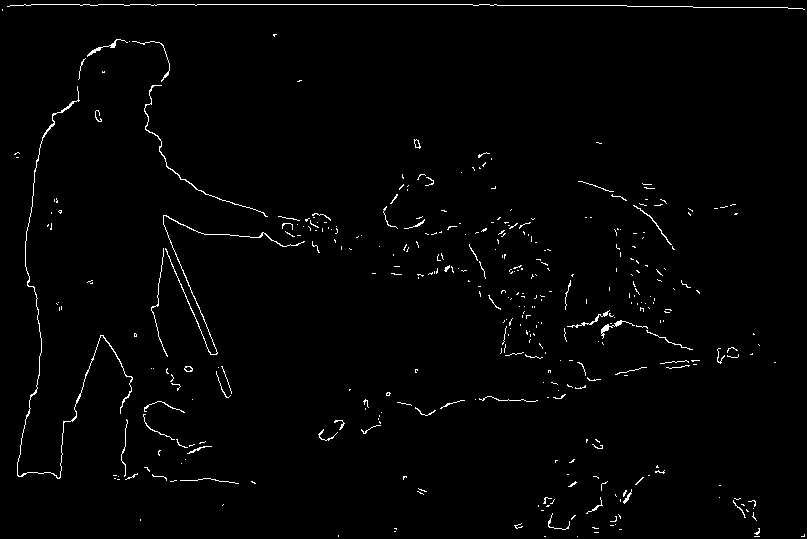
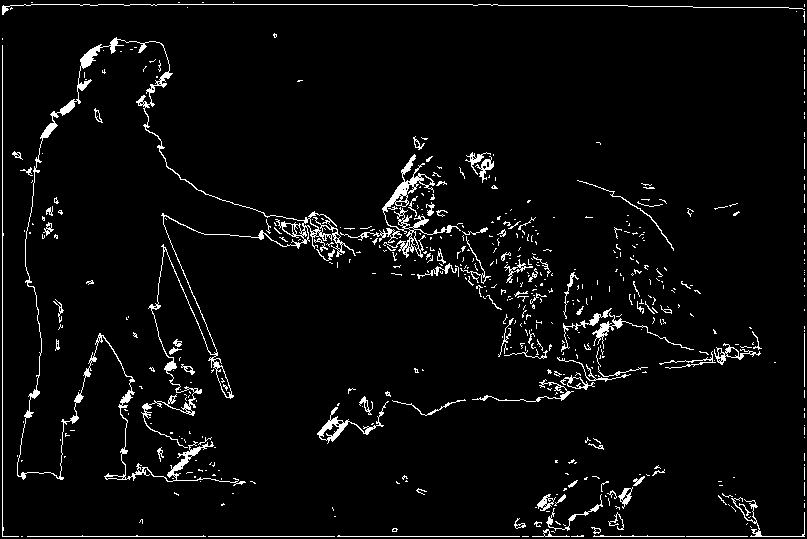
0.7.6. небольшой рефакторинг

diff --git a/CannyProject/CannyProject/Canny.cs b/CannyProject/CannyProject/Canny.cs
@@ -226,16 +226,15 @@ namespace CannyProject
             GaussianFilterImage = GetGaussianFilterImage(greyImage);
             float[,] derivativeX = GetDifferentiateX(GaussianFilterImage);
             float[,] derivativeY = GetDifferentiateY(GaussianFilterImage);
-            Gradient = ComputeGradientByDerivativesXY(derivativeX, derivativeY);
+            Gradient = ComputeGradientByDerivativesXy(derivativeX, derivativeY);
             if (_twoInputImage != null)
             {
                 Gradient = MyTestChangeGradientTwoImage(Gradient);
             }
-            NonMax = PerformNonMaximumSuppression(Gradient);
-
-
-            int limit = _mainKoeefficient.KernelSize/2;
+            SetNonMaxFromGradient(Gradient);
+            int limit = _mainKoeefficient.KernelSize / 2;
             SetNonMaxZero(limit, derivativeX, derivativeY);
+
             SetPostHysretesisFromNonMax(limit);
 
             //Find Max and Min in Post Hysterisis
@@ -255,7 +254,7 @@ namespace CannyProject
                         min = PostHysteresis[r, c];
                     }
                 }
-            }
+            } // nahuya? o_O
 
             SetGnhGnlEdgePoints(limit);
             var edgeMap = HysterisisThresholding(_edgePoints);
@@ -352,11 +351,13 @@ namespace CannyProject
         {
             var filterWidth = filter.GetLength(0);
             var filterHeight = filter.GetLength(1);
-            var output = new float[ObjInputImage.Width,ObjInputImage.Height];
+            var width = ObjInputImage.Width;
+            var height = ObjInputImage.Height;
+            var output = new float[width, height];
 
-            for (var i = filterWidth/2; i <= (ObjInputImage.Width - filterWidth/2) - 1; i++)
+            for (var i = filterWidth/2; i <= (width - filterWidth/2) - 1; i++)
             {
-                for (var j = filterHeight/2; j <= (ObjInputImage.Height - filterHeight/2) - 1; j++)
+                for (var j = filterHeight/2; j <= (height - filterHeight/2) - 1; j++)
                 {
                     float sum = 0;
                     for (var k = -filterWidth/2; k <= filterWidth/2; k++)
@@ -372,7 +373,7 @@ namespace CannyProject
             return output;
         }
 
-        private float[,] ComputeGradientByDerivativesXY(float[,] derivativeX, float[,] derivativeY)
+        private float[,] ComputeGradientByDerivativesXy(float[,] derivativeX, float[,] derivativeY)
         {
             var gradient = new float[ObjInputImage.Width,ObjInputImage.Height];
             for (var i = 0; i <= (ObjInputImage.Width - 1); i++)
@@ -448,18 +449,17 @@ namespace CannyProject
             return gradient;
         }
 
-        private float[,] PerformNonMaximumSuppression(float[,] gradient)
+        private void SetNonMaxFromGradient(float[,] gradient)
         {
             // NonMax = Gradient; ?? ^_^
-            var nonMax = new float[ObjInputImage.Width,ObjInputImage.Height];
+            NonMax = new float[ObjInputImage.Width, ObjInputImage.Height];
             for (var i = 0; i <= (ObjInputImage.Width - 1); i++)
             {
                 for (var j = 0; j <= (ObjInputImage.Height - 1); j++)
                 {
-                    nonMax[i, j] = gradient[i, j];
+                    NonMax[i, j] = gradient[i, j];
                 }
             }
-            return nonMax;
         }
 
         private void SetNonMaxZero(int limit, float[,] derivativeX, float[,] derivativeY)
@@ -468,35 +468,27 @@ namespace CannyProject
             {
                 for (var j = limit; j <= (ObjInputImage.Height - limit) - 1; j++)
                 {
-                    float tangent = derivativeX[i, j] == 0
-                                        ? 90F
-                                        : (float) (Math.Atan(derivativeY[i, j]/derivativeX[i, j])*180/Math.PI);
-                        //сомнительная херня, увеличивает производительность?
-
+                    var t = (float) (Math.Atan(derivativeY[i, j]/derivativeX[i, j])*180/Math.PI);
                     //Horizontal Edge
-                    if (((-22.5 < tangent) && (tangent <= 22.5)) || ((157.5 < tangent) && (tangent <= -157.5)))
+                    if (((-22.5 < t) && (t <= 22.5)) || ((157.5 < t) && (t <= -157.5)))
                     {
                         if ((Gradient[i, j] < Gradient[i, j + 1]) || (Gradient[i, j] < Gradient[i, j - 1]))
                             NonMax[i, j] = 0;
                     }
-
-
                     //Vertical Edge
-                    if (((-112.5 < tangent) && (tangent <= -67.5)) || ((67.5 < tangent) && (tangent <= 112.5)))
+                    if (((-112.5 < t) && (t <= -67.5)) || ((67.5 < t) && (t <= 112.5)))
                     {
                         if ((Gradient[i, j] < Gradient[i + 1, j]) || (Gradient[i, j] < Gradient[i - 1, j]))
                             NonMax[i, j] = 0;
                     }
-
                     //+45 Degree Edge
-                    if (((-67.5 < tangent) && (tangent <= -22.5)) || ((112.5 < tangent) && (tangent <= 157.5)))
+                    if (((-67.5 < t) && (t <= -22.5)) || ((112.5 < t) && (t <= 157.5)))
                     {
                         if ((Gradient[i, j] < Gradient[i + 1, j - 1]) || (Gradient[i, j] < Gradient[i - 1, j + 1]))
                             NonMax[i, j] = 0;
                     }
-
                     //-45 Degree Edge
-                    if (((-157.5 < tangent) && (tangent <= -112.5)) || ((67.5 < tangent) && (tangent <= 22.5)))
+                    if (((-157.5 < t) && (t <= -112.5)) || ((67.5 < t) && (t <= 22.5)))
                     {
                         if ((Gradient[i, j] < Gradient[i + 1, j + 1]) || (Gradient[i, j] < Gradient[i - 1, j - 1]))
                             NonMax[i, j] = 0;
@@ -514,12 +506,13 @@ namespace CannyProject
                 {
                     PostHysteresis[r, c] = (int) NonMax[r, c];
                 }
-
             }
         }
-
+        
         private void SetGnhGnlEdgePoints(int limit)
         {
+            var max = _mainKoeefficient.MaxHysteresisThresh;
+            var min = _mainKoeefficient.MinHysteresisThresh;
             GNH = new float[ObjInputImage.Width,ObjInputImage.Height];
             GNL = new float[ObjInputImage.Width,ObjInputImage.Height];
             _edgePoints = new int[ObjInputImage.Width,ObjInputImage.Height];
@@ -528,12 +521,12 @@ namespace CannyProject
             {
                 for (var j = limit; j <= (ObjInputImage.Height - limit) - 1; j++)
                 {
-                    if (PostHysteresis[i, j] >= _mainKoeefficient.MaxHysteresisThresh)
+                    if (PostHysteresis[i, j] >= max)
                     {
                         _edgePoints[i, j] = 1;
                         GNH[i, j] = 255;
                     }
-                    if ((PostHysteresis[i, j] < _mainKoeefficient.MaxHysteresisThresh) && (PostHysteresis[i, j] >= _mainKoeefficient.MinHysteresisThresh))
+                    if ((PostHysteresis[i, j] < max) && (PostHysteresis[i, j] >= min))
                     {
                         _edgePoints[i, j] = 2;
                         GNL[i, j] = 255;

diff --git a/CannyProject/CannyProject/MainForm.Designer.cs b/CannyProject/CannyProject/MainForm.Designer.cs
@@ -43,10 +43,11 @@ namespace CannyProject
             this.uiFinalCannyPictureBox = new System.Windows.Forms.PictureBox();
             this.uiGaussianFilteredImagePictureBox = new System.Windows.Forms.PictureBox();
             this.uiInputImagePictureBox = new System.Windows.Forms.PictureBox();
+            this.uiNonMaxPictureBox = new System.Windows.Forms.PictureBox();
+            this.colorKoeefficientControl = new CannyProject.KoeeficientClasses.Gui.ColorKoeefficientControl();
             this.uiClearGradientIfOtherNeighborhoodKoeefficientControl = new CannyProject.KoeeficientClasses.Gui.ClearGradientIfOtherNeighborhoodKoeefficientControl();
             this.uiMainKoeefficientControl = new CannyProject.KoeeficientClasses.Gui.MainKoeefficientControl();
             this.uiClearEdgeMapHomeAlonePointKoeefficientControl = new CannyProject.KoeeficientClasses.Gui.ClearEdgeMapHomeAlonePointKoeefficientControl();
-            this.colorKoeefficientControl = new CannyProject.KoeeficientClasses.Gui.ColorKoeefficientControl();
             this.toolStrip1.SuspendLayout();
             ((System.ComponentModel.ISupportInitialize)(this.uiSpecialPictureBox)).BeginInit();
             ((System.ComponentModel.ISupportInitialize)(this.uiGradientPictureBox)).BeginInit();
@@ -55,6 +56,7 @@ namespace CannyProject
             ((System.ComponentModel.ISupportInitialize)(this.uiFinalCannyPictureBox)).BeginInit();
             ((System.ComponentModel.ISupportInitialize)(this.uiGaussianFilteredImagePictureBox)).BeginInit();
             ((System.ComponentModel.ISupportInitialize)(this.uiInputImagePictureBox)).BeginInit();
+            ((System.ComponentModel.ISupportInitialize)(this.uiNonMaxPictureBox)).BeginInit();
             this.SuspendLayout();
             // 
             // toolStrip1
@@ -163,6 +165,23 @@ namespace CannyProject
             this.uiInputImagePictureBox.TabIndex = 52;
             this.uiInputImagePictureBox.TabStop = false;
             // 
+            // pictureBox1
+            // 
+            this.uiNonMaxPictureBox.Location = new System.Drawing.Point(18, 646);
+            this.uiNonMaxPictureBox.Name = "uiNonMaxPictureBox";
+            this.uiNonMaxPictureBox.Size = new System.Drawing.Size(256, 196);
+            this.uiNonMaxPictureBox.SizeMode = System.Windows.Forms.PictureBoxSizeMode.StretchImage;
+            this.uiNonMaxPictureBox.TabIndex = 93;
+            this.uiNonMaxPictureBox.TabStop = false;
+            // 
+            // colorKoeefficientControl
+            // 
+            this.colorKoeefficientControl.Location = new System.Drawing.Point(974, 494);
+            this.colorKoeefficientControl.MinimumSize = new System.Drawing.Size(15, 15);
+            this.colorKoeefficientControl.Name = "colorKoeefficientControl";
+            this.colorKoeefficientControl.Size = new System.Drawing.Size(125, 150);
+            this.colorKoeefficientControl.TabIndex = 92;
+            // 
             // uiClearGradientIfOtherNeighborhoodKoeefficientControl
             // 
             this.uiClearGradientIfOtherNeighborhoodKoeefficientControl.Location = new System.Drawing.Point(825, 259);
@@ -187,19 +206,12 @@ namespace CannyProject
             this.uiClearEdgeMapHomeAlonePointKoeefficientControl.Size = new System.Drawing.Size(128, 229);
             this.uiClearEdgeMapHomeAlonePointKoeefficientControl.TabIndex = 89;
             // 
-            // colorKoeefficientControl1
-            // 
-            this.colorKoeefficientControl.Location = new System.Drawing.Point(974, 494);
-            this.colorKoeefficientControl.MinimumSize = new System.Drawing.Size(15, 15);
-            this.colorKoeefficientControl.Name = "colorKoeefficientControl";
-            this.colorKoeefficientControl.Size = new System.Drawing.Size(125, 150);
-            this.colorKoeefficientControl.TabIndex = 92;
-            // 
             // MainForm
             // 
             this.AutoScaleDimensions = new System.Drawing.SizeF(6F, 13F);
             this.AutoScaleMode = System.Windows.Forms.AutoScaleMode.Font;
-            this.ClientSize = new System.Drawing.Size(1124, 698);
+            this.ClientSize = new System.Drawing.Size(1124, 889);
+            this.Controls.Add(this.uiNonMaxPictureBox);
             this.Controls.Add(this.colorKoeefficientControl);
             this.Controls.Add(this.uiClearGradientIfOtherNeighborhoodKoeefficientControl);
             this.Controls.Add(this.uiMainKoeefficientControl);
@@ -226,6 +238,7 @@ namespace CannyProject
             ((System.ComponentModel.ISupportInitialize)(this.uiFinalCannyPictureBox)).EndInit();
             ((System.ComponentModel.ISupportInitialize)(this.uiGaussianFilteredImagePictureBox)).EndInit();
             ((System.ComponentModel.ISupportInitialize)(this.uiInputImagePictureBox)).EndInit();
+            ((System.ComponentModel.ISupportInitialize)(this.uiNonMaxPictureBox)).EndInit();
             this.ResumeLayout(false);
             this.PerformLayout();
 
@@ -249,6 +262,7 @@ namespace CannyProject
         private MainKoeefficientControl uiMainKoeefficientControl;
         private ClearGradientIfOtherNeighborhoodKoeefficientControl uiClearGradientIfOtherNeighborhoodKoeefficientControl;
         private ColorKoeefficientControl colorKoeefficientControl;
+        private System.Windows.Forms.PictureBox uiNonMaxPictureBox;
     }
 }
 

diff --git a/CannyProject/CannyProject/MainForm.cs b/CannyProject/CannyProject/MainForm.cs
@@ -70,6 +70,7 @@ namespace CannyProject
                 uiGnhPictureBox.Image = cannyData.GetDisplayedImage(cannyData.GNH);
                 uiGnlPictureBox.Image = cannyData.GetDisplayedImage(cannyData.GNL);
                 uiGradientPictureBox.Image = cannyData.GetDisplayedImage(cannyData.Gradient);
+                uiNonMaxPictureBox.Image = cannyData.GetDisplayedImage(cannyData.NonMax);
                 if (twoImage != null)
                 {
                     uiSpecialPictureBox.Image = cannyData.GetDisplayedImage(cannyData.DeffirentBeetweenTwoImagesMatrix);

diff --git a/CannyProject/CannyProject/KoeeficientClasses/MainKoeefficient.cs b/CannyProject/CannyProject/KoeeficientClasses/MainKoeefficient.cs
@@ -1,4 +1,6 @@
-namespace CannyProject.KoeeficientClasses
+using System;
+
+namespace CannyProject.KoeeficientClasses
 {
     public class MainKoeefficient
     {
@@ -10,3 +12,4 @@
         public float Sigma;
     }
 }
+
